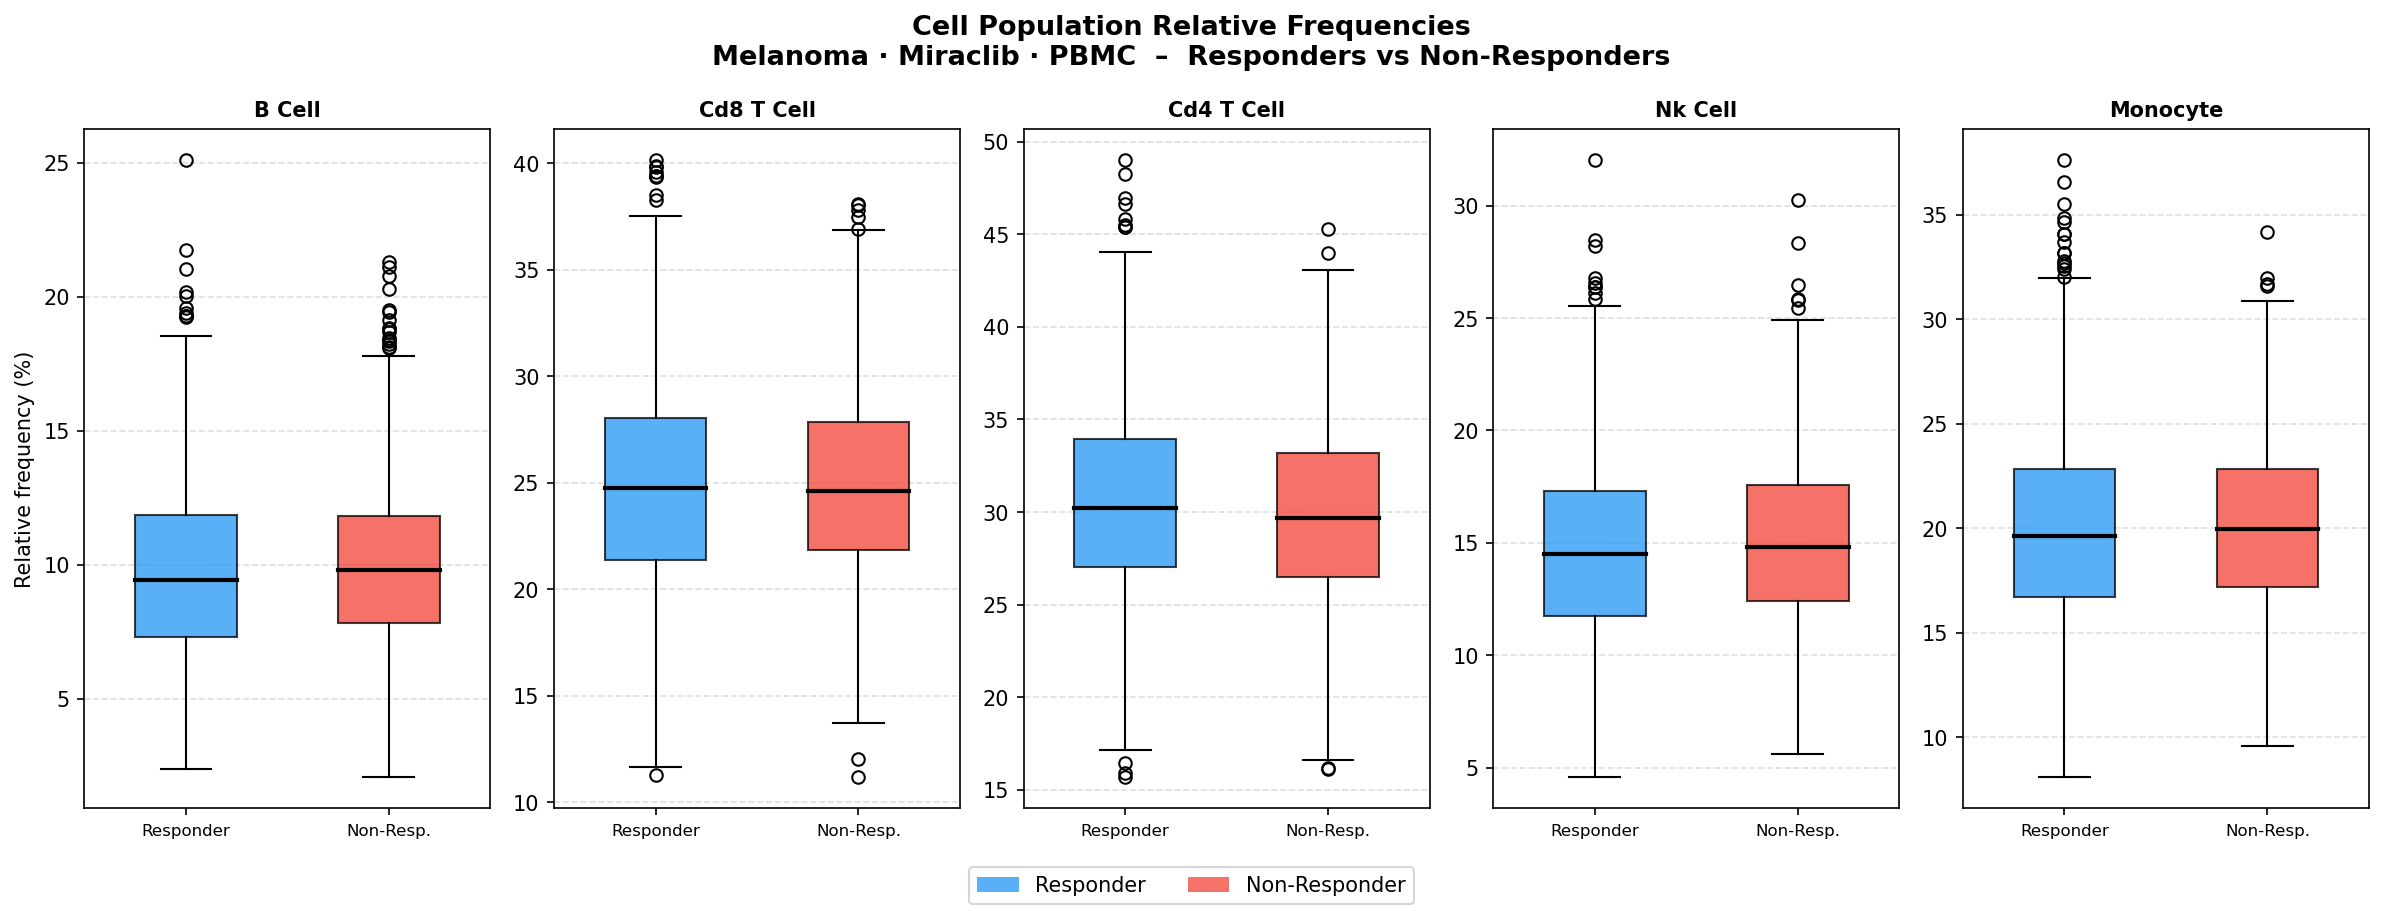
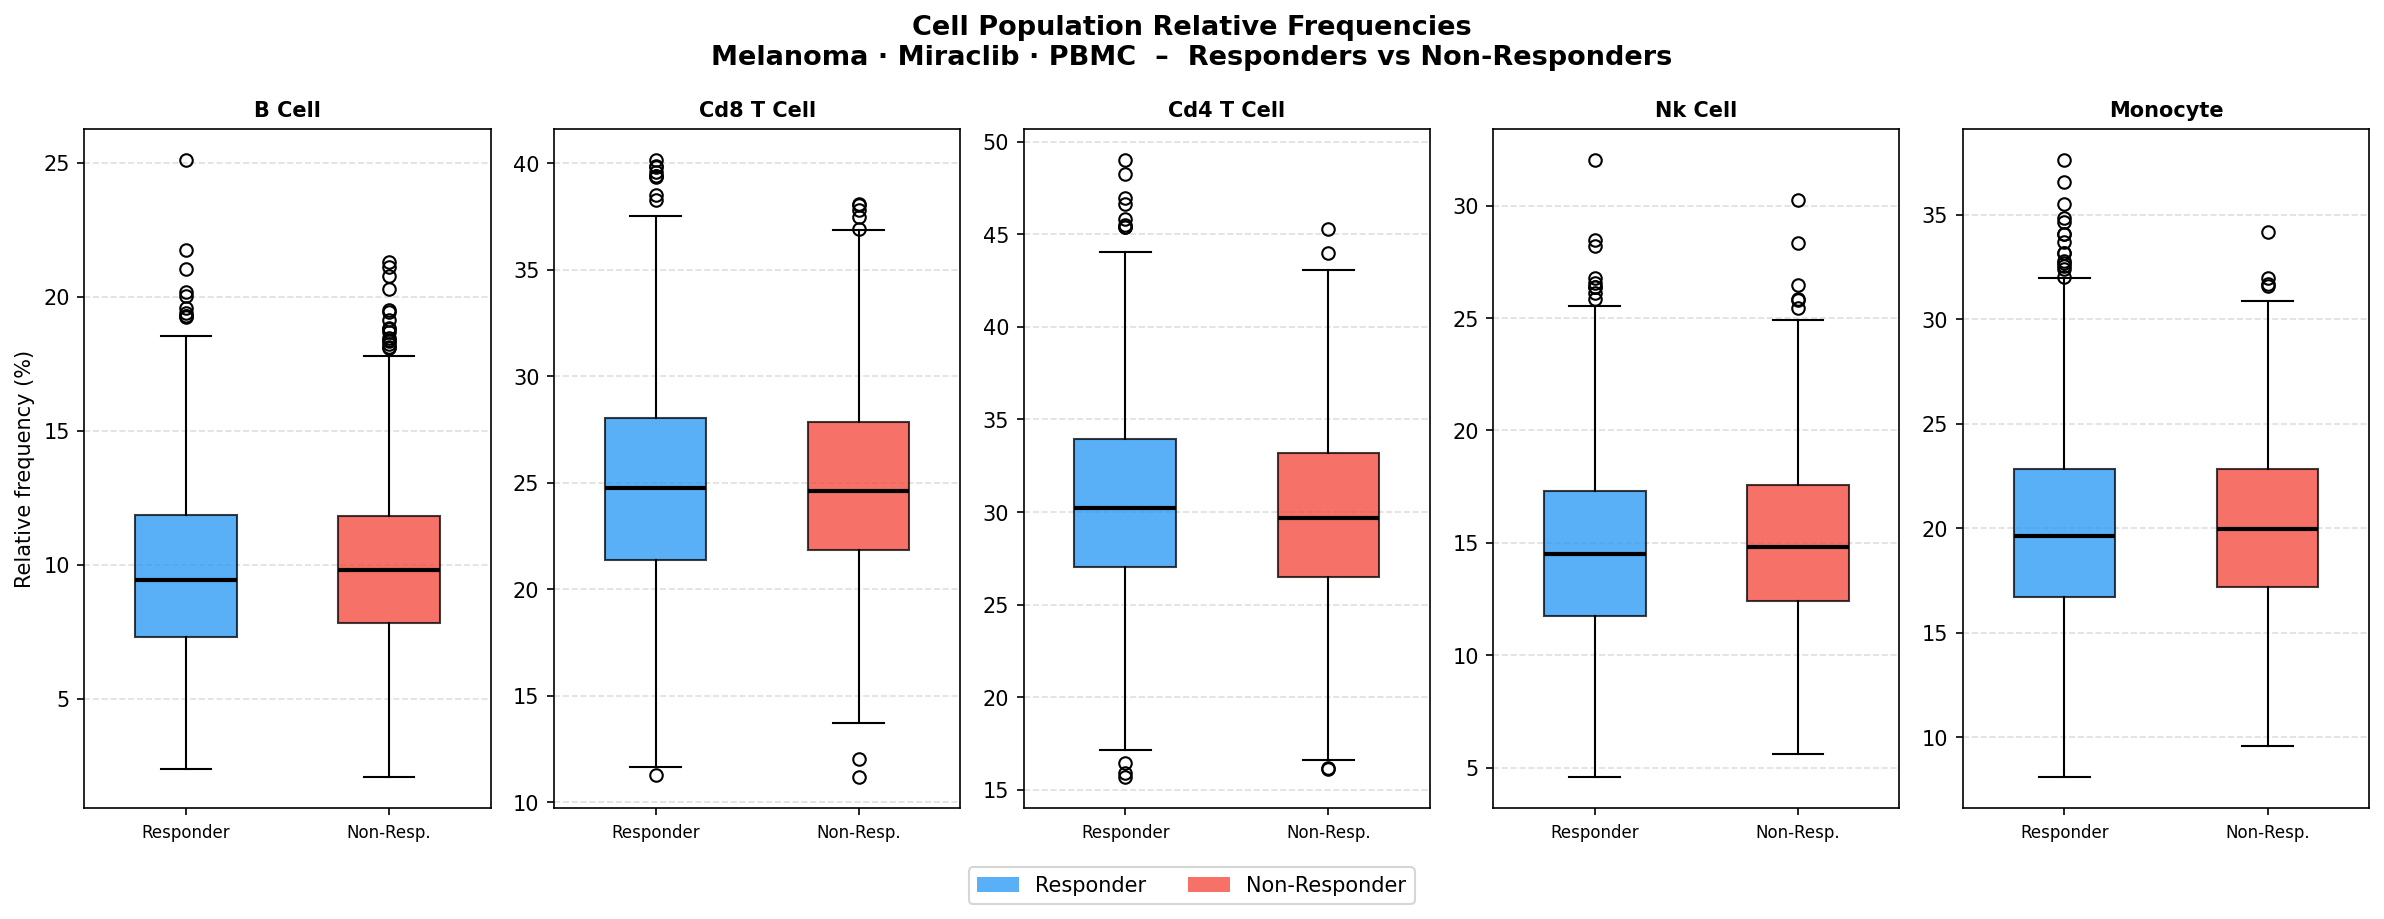
Refactor api_data_subset_analysis to calculate average B-cell counts for male responders based on condition and time; update response structure for clarity.

diff --git a/server.py b/server.py
@@ -501,8 +501,31 @@ def api_data_subset_analysis():
             "subjects_by_sex": {}, "avg_b_cell_male_resp": None, "n_male_resp": 0,
         })
 
-    male_resp = df[(df["sex"] == "M") & (df["response"] == "yes")]
-    avg_b = round(float(male_resp["b_cell"].mean()), 2) if not male_resp.empty else None
+    # Avg B-cell: condition + sex=M + response=yes + time only.
+    # Excludes sample_type and treatment so the answer matches the literal question:
+    # "average B-cell for [condition] male responders at time=X"
+    avg_where, avg_params = ["sub.sex = 'M'", "s.response = 'yes'"], []
+    if condition:   avg_where.append("sub.condition = ?");                   avg_params.append(condition)
+    if time_int is not None: avg_where.append("s.time_from_treatment_start = ?"); avg_params.append(time_int)
+
+    avg_query = f"""
+        SELECT ROUND(AVG(cc.b_cell), 2) AS avg_b_cell, COUNT(*) AS n
+        FROM samples s
+        JOIN subjects sub ON sub.subject_id = s.subject_id
+        JOIN cell_counts cc ON cc.sample_id = s.sample_id
+        WHERE {" AND ".join(avg_where)}
+    """
+    try:
+        conn2 = get_connection()
+        try:
+            avg_row = pd.read_sql_query(avg_query, conn2, params=avg_params if avg_params else None).iloc[0]
+        finally:
+            conn2.close()
+    except sqlite3.OperationalError:
+        avg_row = {"avg_b_cell": None, "n": 0}
+
+    avg_b    = round(float(avg_row["avg_b_cell"]), 2) if avg_row["avg_b_cell"] is not None else None
+    n_male_resp = int(avg_row["n"])
 
     result = {
         "total_samples":        int(len(df)),
@@ -511,7 +534,7 @@ def api_data_subset_analysis():
         "subjects_by_response": {k: int(v) for k, v in df.groupby("response")["subject_id"].nunique().items()},
         "subjects_by_sex":      {k: int(v) for k, v in df.groupby("sex")["subject_id"].nunique().items()},
         "avg_b_cell_male_resp": avg_b,
-        "n_male_resp":          int(len(male_resp)),
+        "n_male_resp":          n_male_resp,
         "filters":              {"condition": condition or None, "sample_type": sample_type or None, "time": time_int, "treatment": treatment or None},
     }
 
